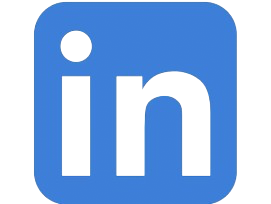
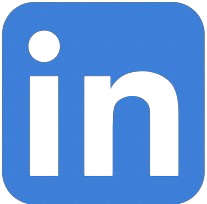
fixing ratios

diff --git a/src/components/Modal.js b/src/components/Modal.js
@@ -14,7 +14,7 @@ export default function Modal({ closed_image, open_text, link_text }) {
     return (
         <div>
             <button className='img-btn' onClick={handleOpenModal}>
-                <img className='contact-images' src={closed_image} alt="Closed Modal" />
+                <img className='contact-images' src={closed_image} alt="Closed Modal" style={{ width: '100%', height: '100%', minWidth: '25.5px', maxWidth: '68px', minHeight: '25.875px', maxHeight: '69px' }}/>
             </button>
             {isOpen && (
                 <div className={`modal ${isOpen ? 'open' : ''}`} id="modal">
